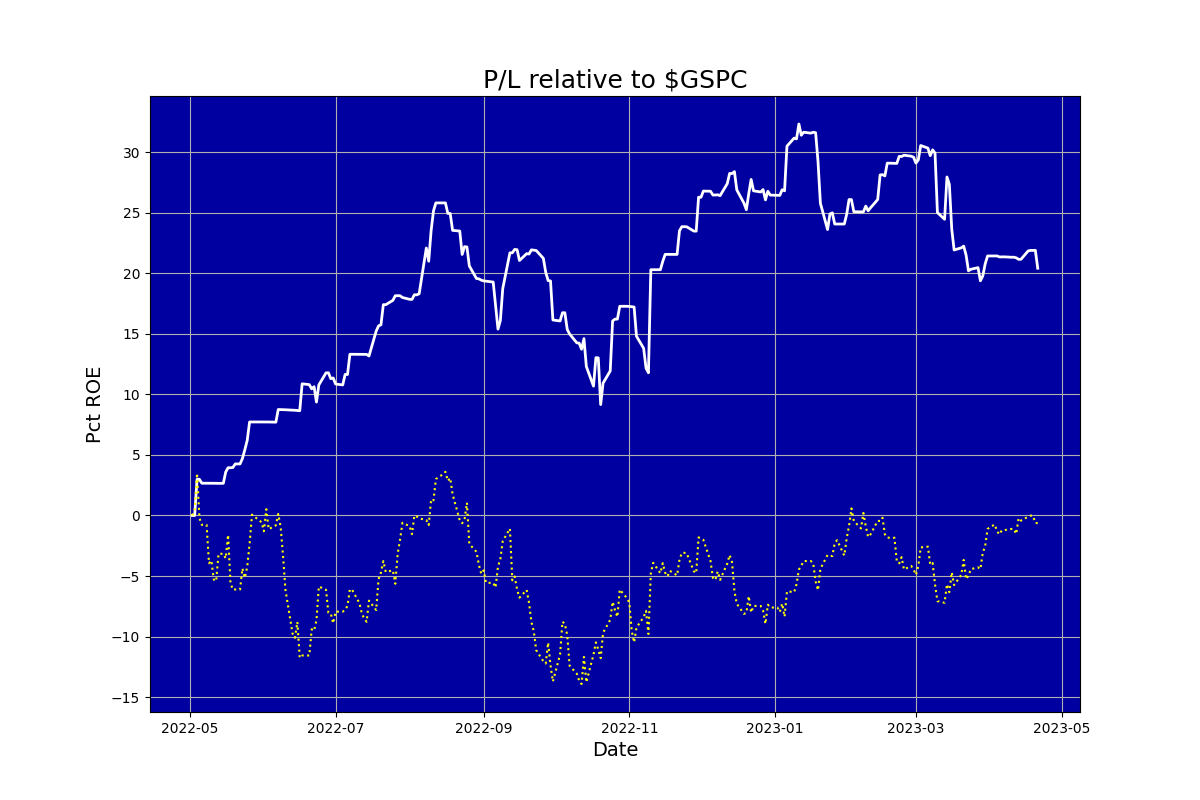
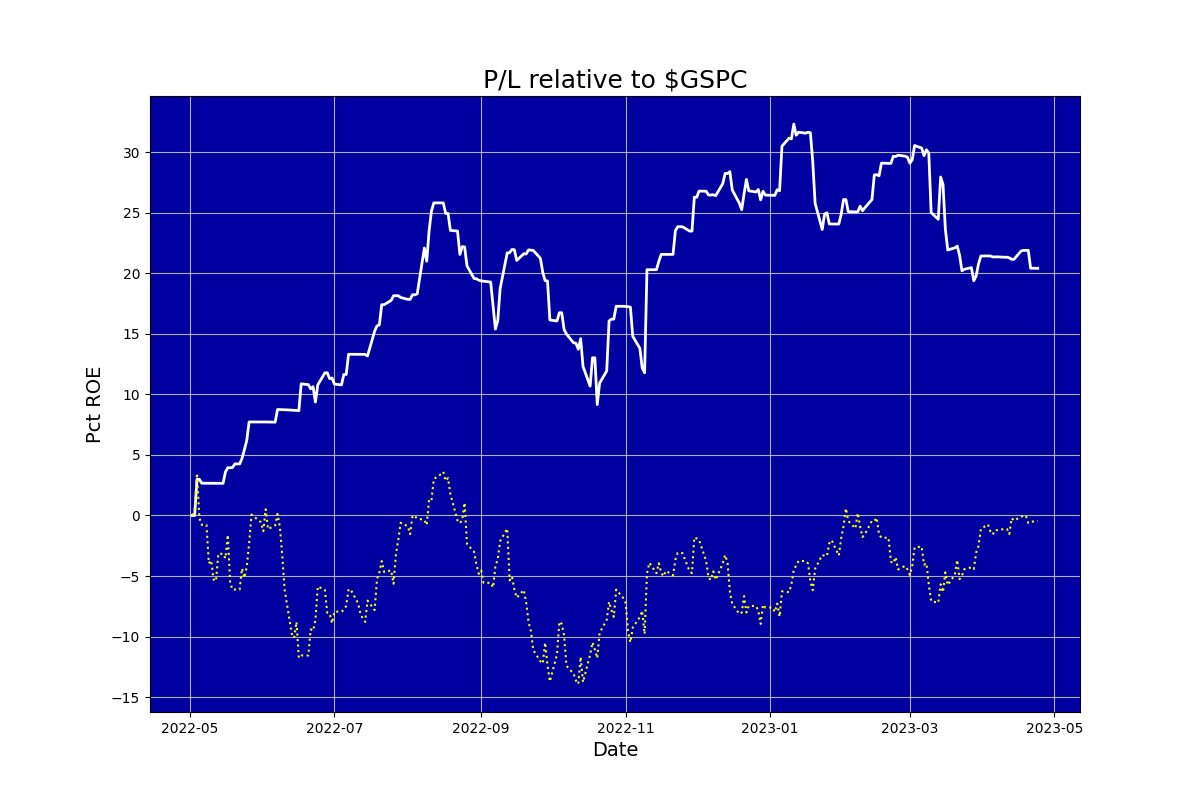
Updated

diff --git a/ig_report.html b/ig_report.html
@@ -1,1 +1,1 @@
-<html><body><center><h1>Auriel (never knowingly overbought)</h1></center><table cols=2><tr><td><img src=ig_pl.png></td><td><table cols=2><tr><td colspan=2><b><br>Snapshot</b></td></tr><tr><td>Last updated:&nbsp;&nbsp;&nbsp;</td><td>2023-04-21 15:53</td></tr><tr><td>Margin:&nbsp;&nbsp;&nbsp;</td><td>0.02</td></tr><tr><td>Cushion:&nbsp;&nbsp;&nbsp;</td><td>-9206.13</td></tr><tr><td>Last closed trade:&nbsp;&nbsp;&nbsp;</td><td>2023-04-21</td></tr><tr><td colspan=2><b><br>Positions</b></td></tr><tr><td>Mean days to new high:&nbsp;&nbsp;&nbsp;</td><td>12.03</td></tr><tr><td colspan=2><b><br>Trades</b></td></tr><tr><td>Traded days:&nbsp;&nbsp;&nbsp;</td><td>257</td></tr><tr><td>Profitable days pct:&nbsp;&nbsp;&nbsp;</td><td>38.52</td></tr><tr><td>Days beat S&P pct:&nbsp;&nbsp;&nbsp;</td><td>55.10</td></tr><tr><td>Profitable months pct:&nbsp;&nbsp;&nbsp;</td><td>66.67</td></tr><tr><td colspan=2><b><br>Performance</b></td></tr><tr><td>Pct median monthly ROE:&nbsp;&nbsp;&nbsp;</td><td>1.28</td></tr><tr><td>Pct annualised ROE:&nbsp;&nbsp;&nbsp;</td><td>19.86</td></tr><tr><td colspan=2><b><br>Risk</b></td></tr><tr><td>Volatility pct:&nbsp;&nbsp;&nbsp;</td><td>19.39</td></tr><tr><td>Benchmark volatility pct:&nbsp;&nbsp;&nbsp;</td><td>22.50</td></tr><tr><td>Sharpe ratio (RFR 5.0%):&nbsp;&nbsp;&nbsp;</td><td>0.85</td></tr><tr><td>Sortino ratio (RFR 5.0%):&nbsp;&nbsp;&nbsp;</td><td>1.18</td></tr><tr><td>Calmar ratio:&nbsp;&nbsp;&nbsp;</td><td>1.19</td></tr><tr><td>Worst drawdown pct:&nbsp;&nbsp;&nbsp;</td><td>-0.17</td></tr><tr><td>Recovery days from worst drawdown:&nbsp;&nbsp;&nbsp;</td><td>29.00</td></tr><tr><td>Beat benchmark +ve periods pct:&nbsp;&nbsp;&nbsp;</td><td>65.50</td></tr><tr><td>Beat benchmark -ve periods pct:&nbsp;&nbsp;&nbsp;</td><td>90.02</td></tr><tr><td>Correlation with benchmark:&nbsp;&nbsp;&nbsp;</td><td>0.36</td></tr></table></td></tr></table></body></html>
+<html><body><center><h1>Auriel (never knowingly overbought)</h1></center><table cols=2><tr><td><img src=ig_pl.png></td><td><table cols=2><tr><td colspan=2><b><br>Snapshot</b></td></tr><tr><td>Last updated:&nbsp;&nbsp;&nbsp;</td><td>2023-04-24 15:54</td></tr><tr><td>Margin:&nbsp;&nbsp;&nbsp;</td><td>0.18</td></tr><tr><td>Cushion:&nbsp;&nbsp;&nbsp;</td><td>-9218.52</td></tr><tr><td>Last closed trade:&nbsp;&nbsp;&nbsp;</td><td>2023-04-24</td></tr><tr><td colspan=2><b><br>Positions</b></td></tr><tr><td>Mean days to new high:&nbsp;&nbsp;&nbsp;</td><td>12.15</td></tr><tr><td colspan=2><b><br>Trades</b></td></tr><tr><td>Traded days:&nbsp;&nbsp;&nbsp;</td><td>258</td></tr><tr><td>Profitable days pct:&nbsp;&nbsp;&nbsp;</td><td>38.37</td></tr><tr><td>Days beat S&P pct:&nbsp;&nbsp;&nbsp;</td><td>54.47</td></tr><tr><td>Profitable months pct:&nbsp;&nbsp;&nbsp;</td><td>66.67</td></tr><tr><td colspan=2><b><br>Performance</b></td></tr><tr><td>Pct median monthly ROE:&nbsp;&nbsp;&nbsp;</td><td>1.28</td></tr><tr><td>Pct annualised ROE:&nbsp;&nbsp;&nbsp;</td><td>19.78</td></tr><tr><td colspan=2><b><br>Risk</b></td></tr><tr><td>Volatility pct:&nbsp;&nbsp;&nbsp;</td><td>19.36</td></tr><tr><td>Benchmark volatility pct:&nbsp;&nbsp;&nbsp;</td><td>22.45</td></tr><tr><td>Sharpe ratio (RFR 5.0%):&nbsp;&nbsp;&nbsp;</td><td>0.85</td></tr><tr><td>Sortino ratio (RFR 5.0%):&nbsp;&nbsp;&nbsp;</td><td>1.18</td></tr><tr><td>Calmar ratio:&nbsp;&nbsp;&nbsp;</td><td>1.19</td></tr><tr><td>Worst drawdown pct:&nbsp;&nbsp;&nbsp;</td><td>-0.17</td></tr><tr><td>Recovery days from worst drawdown:&nbsp;&nbsp;&nbsp;</td><td>29.00</td></tr><tr><td>Beat benchmark +ve periods pct:&nbsp;&nbsp;&nbsp;</td><td>65.00</td></tr><tr><td>Beat benchmark -ve periods pct:&nbsp;&nbsp;&nbsp;</td><td>89.90</td></tr><tr><td>Correlation with benchmark:&nbsp;&nbsp;&nbsp;</td><td>0.36</td></tr></table></td></tr></table></body></html>
